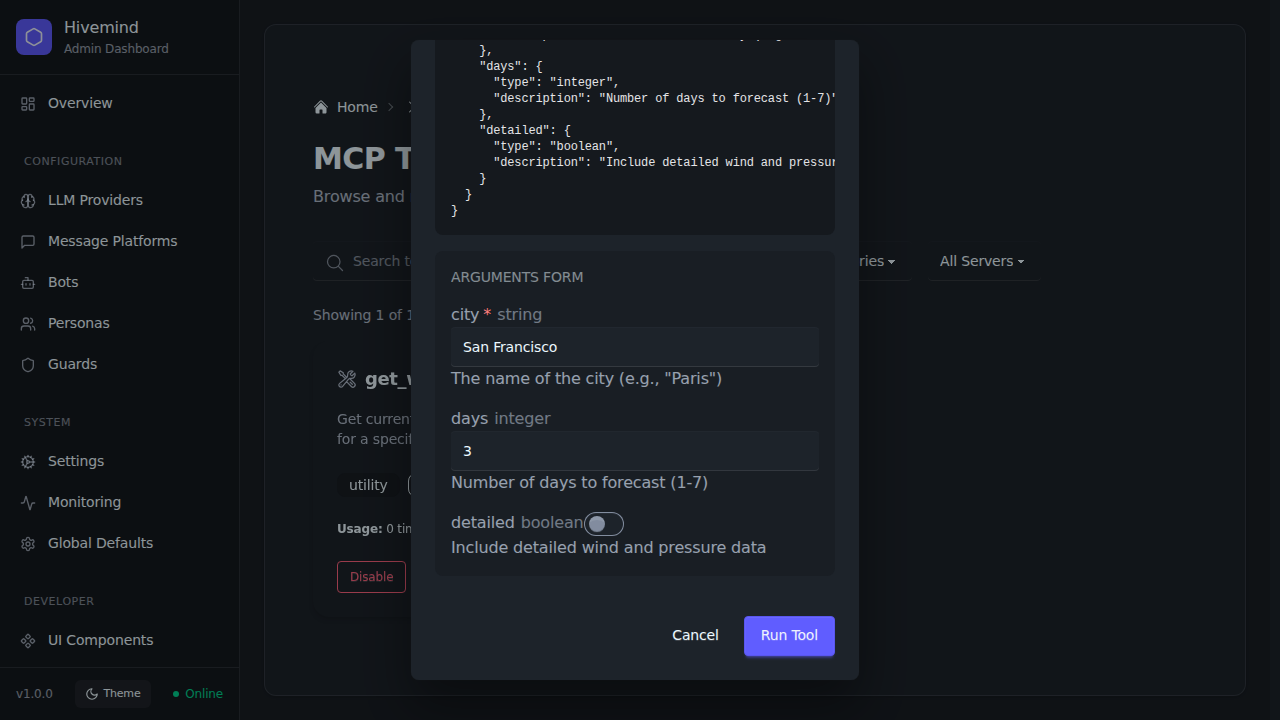
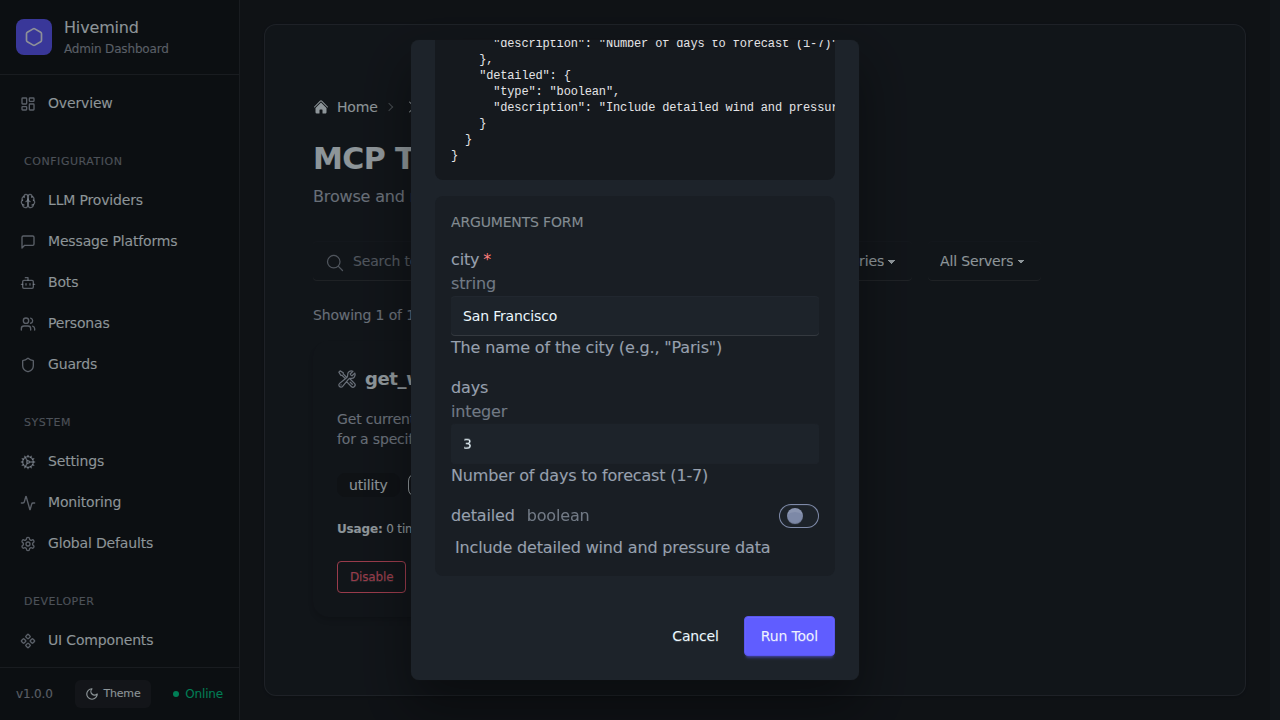
Refiner (6. The MCPToolsPage displays a comprehensive inventory of all (#1087)
* Refactor MCPToolsPage to use custom DaisyUI wrapper components

* Refactor MCPToolsPage to use custom DaisyUI wrapper components

---------

diff --git a/src/client/src/pages/MCPToolsPage.tsx b/src/client/src/pages/MCPToolsPage.tsx
@@ -7,7 +7,7 @@ import {
   CodeBracketIcon,
   ListBulletIcon,
 } from '@heroicons/react/24/outline';
-import { Breadcrumbs, Alert, Modal } from '../components/DaisyUI';
+import { Breadcrumbs, Alert, Modal, Input, Toggle } from '../components/DaisyUI';
 
 interface MCPTool {
   id: string;
@@ -230,46 +230,61 @@ const MCPToolsPage: React.FC = () => {
 
           return (
             <div key={key} className="form-control">
-              <label className="label">
-                <span className="label-text font-medium flex gap-1">
-                  {key}
-                  {isRequired && <span className="text-error">*</span>}
-                </span>
-                <span className="label-text-alt opacity-70">{type}</span>
-              </label>
-
               {type === 'boolean' ? (
-                <input
-                  type="checkbox"
-                  className="toggle toggle-primary"
-                  checked={formArgs[key] || false}
-                  onChange={(e) => updateFormArg(key, e.target.checked)}
-                  disabled={isRunning}
-                />
+                <div className="flex flex-col gap-2">
+                  <label className="label cursor-pointer justify-between gap-4 py-0 items-center">
+                    <span className="label-text font-medium flex gap-1 items-center">
+                      {key}
+                      {isRequired && <span className="text-error">*</span>}
+                      <span className="label-text-alt opacity-70 ml-2">{type}</span>
+                    </span>
+                    <Toggle
+                      color="primary"
+                      checked={formArgs[key] || false}
+                      onChange={(e) => updateFormArg(key, e.target.checked)}
+                      disabled={isRunning}
+                    />
+                  </label>
+                  {schema.description && (
+                    <span className="label-text-alt text-base-content/60 px-1">{schema.description}</span>
+                  )}
+                </div>
               ) : type === 'integer' || type === 'number' ? (
-                <input
+                <Input
                   type="number"
-                  className="input input-bordered w-full"
                   placeholder={`Enter ${key}...`}
                   value={formArgs[key] !== undefined && formArgs[key] !== null ? formArgs[key] : ''}
                   onChange={(e) => updateFormArg(key, e.target.value === '' ? undefined : Number(e.target.value))}
                   disabled={isRunning}
+                  label={
+                    <>
+                      <span className="label-text font-medium flex gap-1">
+                        {key}
+                        {isRequired && <span className="text-error">*</span>}
+                      </span>
+                      <span className="label-text-alt opacity-70">{type}</span>
+                    </>
+                  }
+                  helperText={schema.description}
                 />
               ) : (
-                <input
+                <Input
                   type="text"
-                  className="input input-bordered w-full"
                   placeholder={`Enter ${key}...`}
                   value={formArgs[key] || ''}
                   onChange={(e) => updateFormArg(key, e.target.value)}
                   disabled={isRunning}
+                  label={
+                    <>
+                      <span className="label-text font-medium flex gap-1">
+                        {key}
+                        {isRequired && <span className="text-error">*</span>}
+                      </span>
+                      <span className="label-text-alt opacity-70">{type}</span>
+                    </>
+                  }
+                  helperText={schema.description}
                 />
-              )}
-
-              {schema.description && (
-                <label className="label">
-                  <span className="label-text-alt text-base-content/60">{schema.description}</span>
-                </label>
               )}
             </div>
           );
